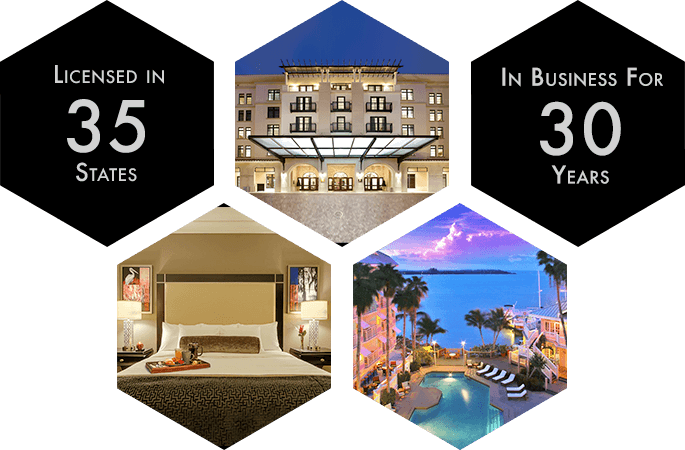
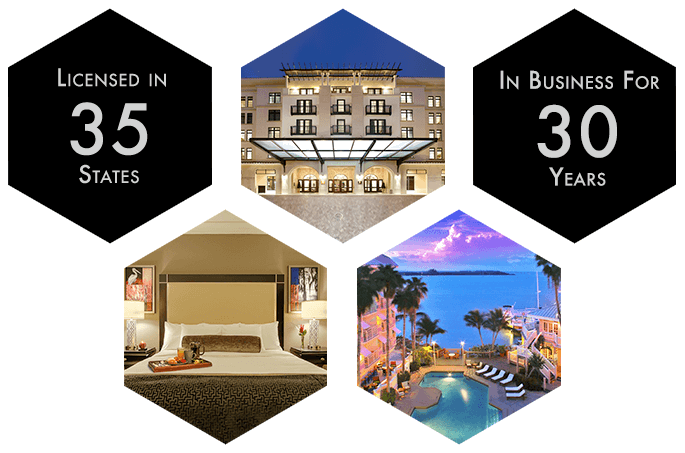
Brought back borders around hero hexes.

diff --git a/src/sass/style.scss b/src/sass/style.scss
@@ -123,6 +123,9 @@ input {
   li {
     list-style-type: none;
     margin-left: 0;
+    padding-left: 1.25em;
+    background: url(images/hex-bullet-999.png)  no-repeat 0 .4em;
+    background-size: .75em;
   }
 }
 
@@ -390,7 +393,7 @@ img {
 
 .hero {
   text-align: center;
-  filter: drop-shadow(0 0 5px rgba(0,0,0, .7));
+  filter: drop-shadow(0 0 10px #000);
   background-size: cover;
   margin: 3.75em 0;
   height: 200px;
@@ -467,6 +470,7 @@ img {
     justify-content: space-around;
     align-items: flex-start;
     flex-wrap: wrap;
+    box-shadow: 20px 20px 30px 4px rgba(0,0,0, .5);
   }
 }
 
@@ -1389,13 +1393,14 @@ div.wpcf7-validation-errors {
 
   .home .intro .wrapper {
     background-color: rgba(0,0,0, .7);
+    border-top-right-radius: 75%;
     flex-wrap: wrap;
     border: none;
     border-right: 1px solid #333;
     width: 50%;
-    max-width: 1000px;
     margin: 0 ;
     padding: 10em 5em 6em 2em;
+    justify-content: flex-start;
   }
 
   #intro-section {
